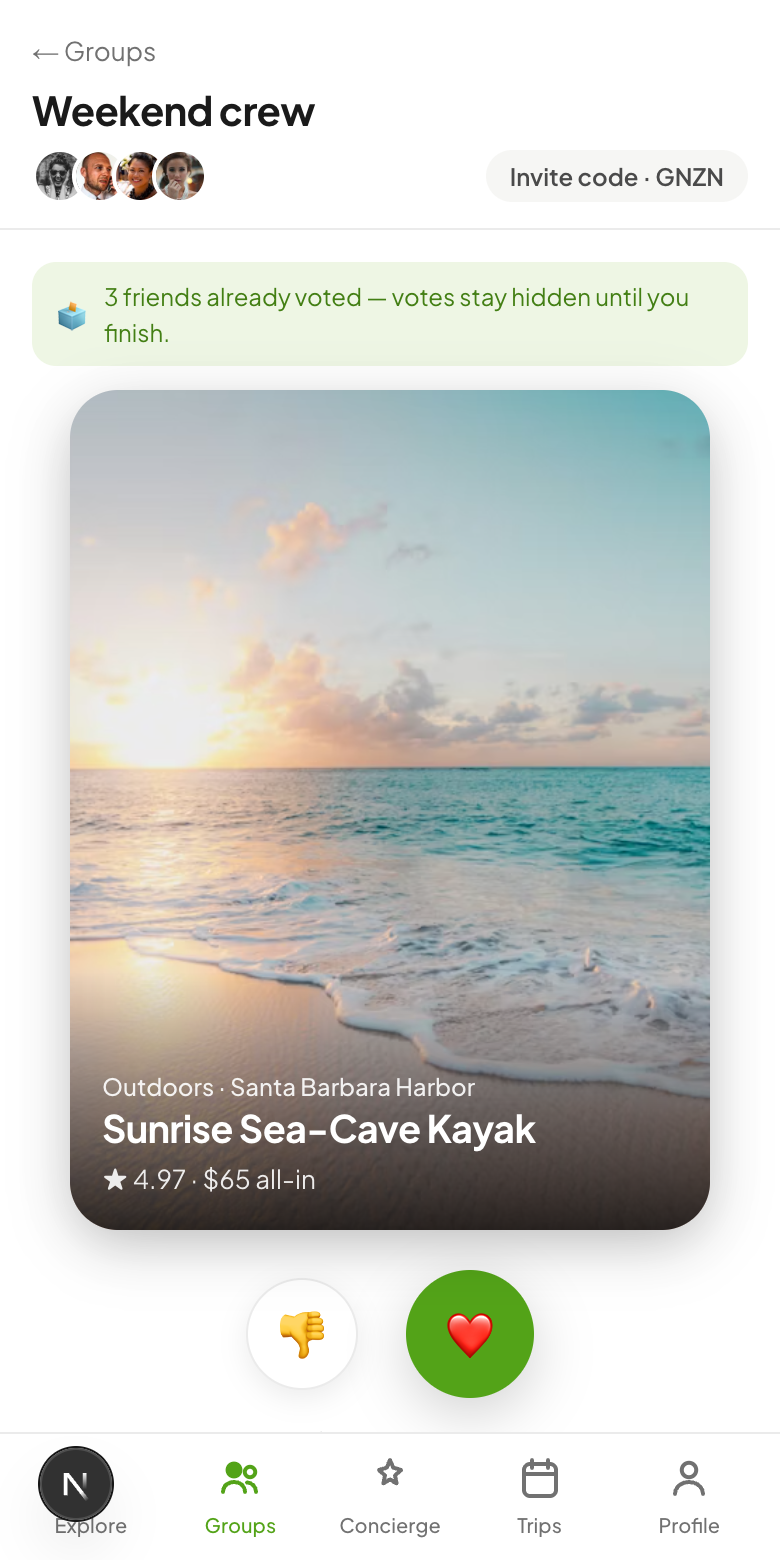
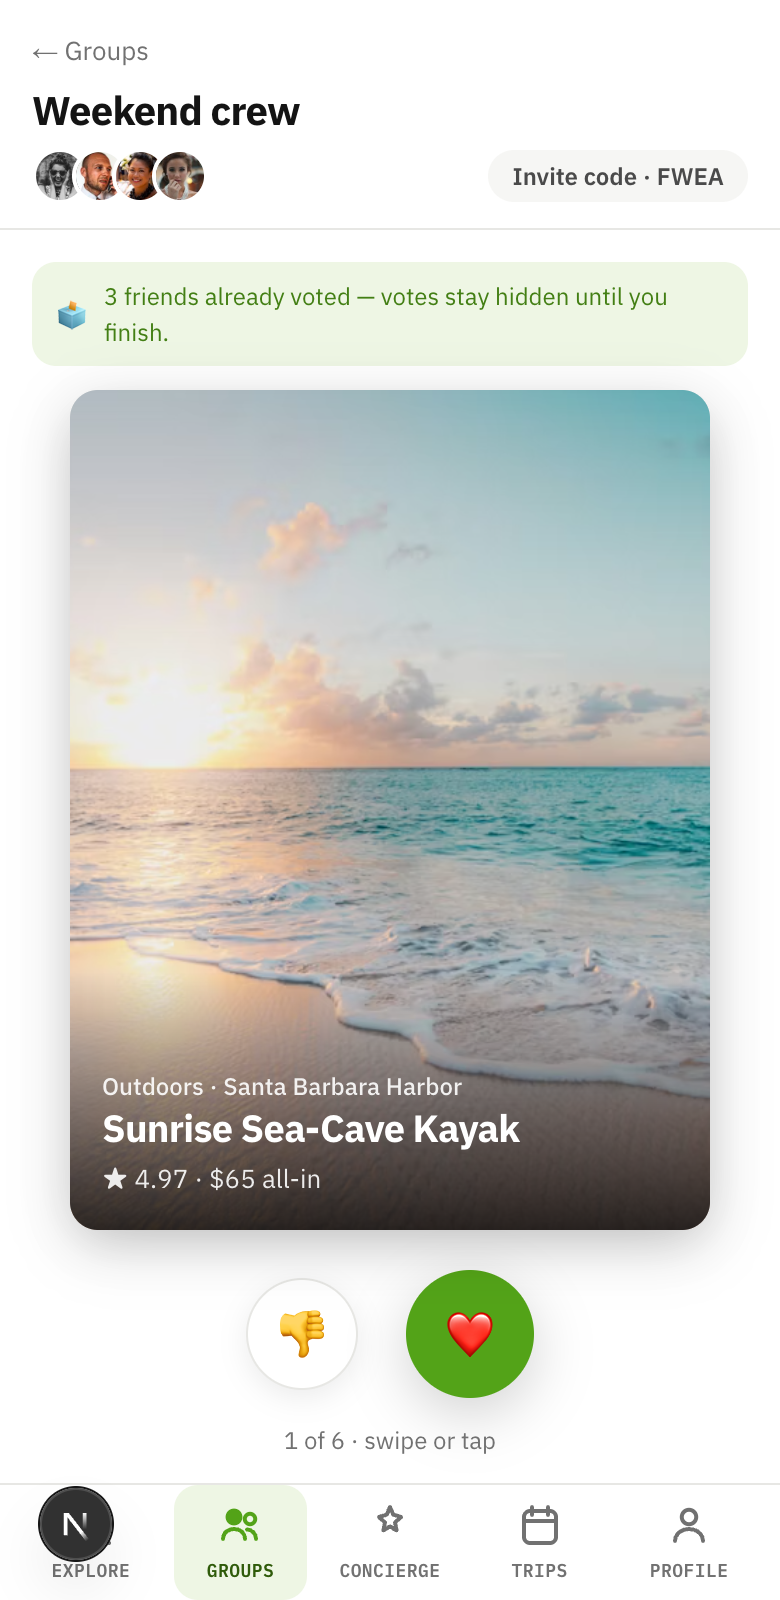
docs: vet README + refresh screenshots, add walkthrough
- Fix stale copy: map markers are value-score + category-icon pins that
  re-filter (not modern price-pins); detail is value-first (score seal +
  breakdown lead, rating demoted); Groupee+ is $5/mo + 5% off; "New partner".
- Add business-profile feature + screenshot; note IBM Plex score-forward identity.
- Add "Walkthrough — take the tour" with the consumer and supply->consumer loops.
- Regenerate all screenshots to current UI; prune 18 orphaned shots.

diff --git a/README.md b/README.md
@@ -19,30 +19,52 @@ Groupon's decline is well documented (Wharton's *"Death of the Daily Deal"*, the
 
 1. **AI concierge** — "find me something tonight," context-aware (time of day), answering with visual cards and a *why you're seeing this* reason — not a wall of text.
 2. **Groups** — invite friends, swipe to vote, the winner auto-commits to a shared plan, and costs split in-app.
-3. **Maps** — a modern map with price-pin markers and a synced card carousel.
+3. **Maps** — a map with **value-score pins** (the score + a category icon, not a price) that re-filter as you switch categories, plus a synced card carousel.
 
 No current app closes the full loop *concierge → group vote → committed plan → split cost*. That whitespace is the beta's reason to exist.
 
 ## Screens
 
-| Explore | Map | Experience |
+| Explore — ranked by value | Experience detail | Business profile |
 |---|---|---|
-| ![Explore](docs/screenshots/explore.png) | ![Map](docs/screenshots/map.png) | ![Detail](docs/screenshots/detail.png) |
+| ![Explore](docs/screenshots/explore.png) | ![Detail](docs/screenshots/detail.png) | ![Business](docs/screenshots/business.png) |
 
-| AI Concierge | Group voting | Split the cost |
+| Map — value-score pins | AI concierge | Groups — swipe to vote |
 |---|---|---|
-| ![Concierge](docs/screenshots/concierge.png) | ![Group voting](docs/screenshots/group-vote.png) | ![Split](docs/screenshots/group-split.png) |
+| ![Map](docs/screenshots/map.png) | ![Concierge](docs/screenshots/concierge.png) | ![Group voting](docs/screenshots/group-vote.png) |
+
+## Walkthrough — take the tour
+
+Run it (below), then follow the click-path. Two loops to see: the **consumer** loop, and the **supply → consumer** loop that fills it.
+
+**Consumer (`/`)**
+1. **Explore** — the feed is **ranked by value**, not by ad spend. Every card carries a score seal; the top pick gets the magenta ring.
+2. **Open a listing** — the **score + factor breakdown lead**, then the photos. Scroll to the **operator** card — it's a *business*, not a person; tap it.
+3. **Business profile** — cover photo, authored bio, and **every deal that business runs on Groupee**.
+4. **Map** (toggle from Explore) — pins show **score + a category icon**. Switch the category pill and the **map re-filters** with the feed.
+5. **Concierge** — ask *"something fun tonight under $50"*; it answers with cards + a *why you're seeing this* reason (live Claude when a key is set).
+6. **Groups** — start a plan, share the 4-letter code, **swipe to vote** (hidden until everyone's in), auto-commit the winner, then **split the cost** — fee-free for Groupee+ members.
+
+| Groups — split the cost |
+|---|
+| ![Split](docs/screenshots/group-split.png) |
+
+**Supply — Partner Studio (`/merchant`, desktop)**
+7. **Pipeline** — the agent fleet sources local businesses and scores each on *merchant fit* **and** a *consumer value floor*; only deals ≥ 72 can publish.
+8. **Open a prospect** — generate the **reasoned proposal** (live Claude, honest unit economics), **Approve & send** the email (CAN-SPAM gated), log consent, then the **consent-gated voice call** (audible ElevenLabs with a key).
+9. **Onboard** — the prospect **publishes straight into the consumer feed** as a live, value-gated deal tagged **"New partner"**. That's the closed loop: the two halves are one system.
 
 ## Features
 
 - **Explore** — search-first home, category pills, photo-first cards, list ⇄ map toggle.
-- **Map** — MapLibre + CARTO Positron basemap, price-pill markers, active-pin highlight, card carousel.
-- **Experience detail** — hero gallery, oversized rating, host card, what's-included, reviews, neighborhood map, and a sticky book bar.
+- **Map** — MapLibre + CARTO Positron basemap; markers show the **value score + a category icon** (not a price) and **re-filter as you change category**; active-pin highlight + synced card carousel.
+- **Experience detail** — **value-first**: a big score seal + the factor breakdown lead, *then* the photos (rating is demoted to a factor, not the headline); a sticky **Book · $X all-in** bar.
+- **Business profiles** — the operator is a real **business**, not a host avatar. Tap it to open its profile — cover photo, an authored bio, and **every deal it runs on Groupee**.
 - **Booking** — atomic date/time slot selection (no "paid but can't book"), color-coded refund policy shown *before* you reserve ("refunded to your card, not credit"), and one-tap support on the confirmation.
 - **AI concierge** — context-aware proactive opener; parses intent + budget ("cheap + nightlife under $50"); replies as cards with reasoning. Backed by the live Claude API when an API key is present, with a deterministic local fallback otherwise.
 - **Groups** — 4-letter invite code, Tinder-style voting (hidden until everyone's done), winner → one-tap committed plan, Splitwise-style split with vote-on-expense.
 - **Trips** — time-ordered upcoming plans, solo and group.
-- **Profile** — taste onboarding (seeds the feed + concierge), wishlists, Groupee+ membership (the non-discount monetization story), and per-category notification controls (the anti-spam answer).
+- **Profile** — taste onboarding (seeds the feed + concierge), wishlists, **Groupee+** ($5/mo — 5% off every deal applied live at checkout, fee-free splits, early access; the non-discount monetization story), and per-category notification controls (the anti-spam answer).
 
 ## Anti-Groupon, by design
 
@@ -76,7 +98,7 @@ The workflow, end to end:
 
 **Value Score — the StubHub move, away from coupons.** Every prospect gets two independent scores: a *merchant fit* score (worth acquiring?) and a *consumer Value Score* (is the deal actually good enough to show users?). A desperate, mediocre spot can pass merchant-fit but **fails the value floor** — so it never reaches the feed. Only deals scoring ≥ 72 are publishable; below that the agent must tune the offer or pass. On the consumer side this surfaces as a **"Great value" badge** on every listing — the feed is curated value, not a coupon dump.
 
-**Closed loop + ops surfaces.** Onboarding a merchant in Partner Studio **publishes it as a live, value-gated deal in the consumer feed** (price from the deal economics, its archetype offer, a "New on Groupee" tag) — the two halves are one system. Plus: a **Fleet** view that scores every prospect in parallel with a bulk "approve all Ship-grade" (the ~10k/wk-vs-100-BDR claim made tangible), an **Impact** dashboard with the board-letter KPIs (value-pass rate, verdict + mechanic mix, projected merchant profit), real **Gmail/Calendar deep-link outreach** from the workspace (prefilled, keyless), and live **Google Places discovery** on the supply graph (mock fallback without a key).
+**Closed loop + ops surfaces.** Onboarding a merchant in Partner Studio **publishes it as a live, value-gated deal in the consumer feed** (price from the deal economics, its archetype offer, a "New partner" tag) — the two halves are one system. Plus: a **Fleet** view that scores every prospect in parallel with a bulk "approve all Ship-grade" (the ~10k/wk-vs-100-BDR claim made tangible), an **Impact** dashboard with the board-letter KPIs (value-pass rate, verdict + mechanic mix, projected merchant profit), real **Gmail/Calendar deep-link outreach** from the workspace (prefilled, keyless), and live **Google Places discovery** on the supply graph (mock fallback without a key).
 
 **Real stack this stands in for:** Google Places/Foursquare + Clay (sourcing/enrichment) → Attio (CRM; note CRM ≠ ERP) → Instantly/Smartlead (email, warmup + SPF/DKIM/DMARC) → ElevenLabs Agents + Twilio (voice, consent-gated). The in-app version simulates sourcing + CRM and uses the real Claude and ElevenLabs APIs.
 
@@ -85,6 +107,7 @@ The workflow, end to end:
 - **Next.js 16** (App Router) + **React 19** + **TypeScript**
 - **Tailwind CSS v4** (CSS-based theming)
 - **MapLibre GL** with CARTO Positron raster tiles (no API key required)
+- **IBM Plex Sans + IBM Plex Mono** — the score-forward identity; mono carries every score, price, and rank numeral
 - Client-side state via React context, persisted to `localStorage`
 - Mobile-first, rendered inside a phone frame on desktop
 
